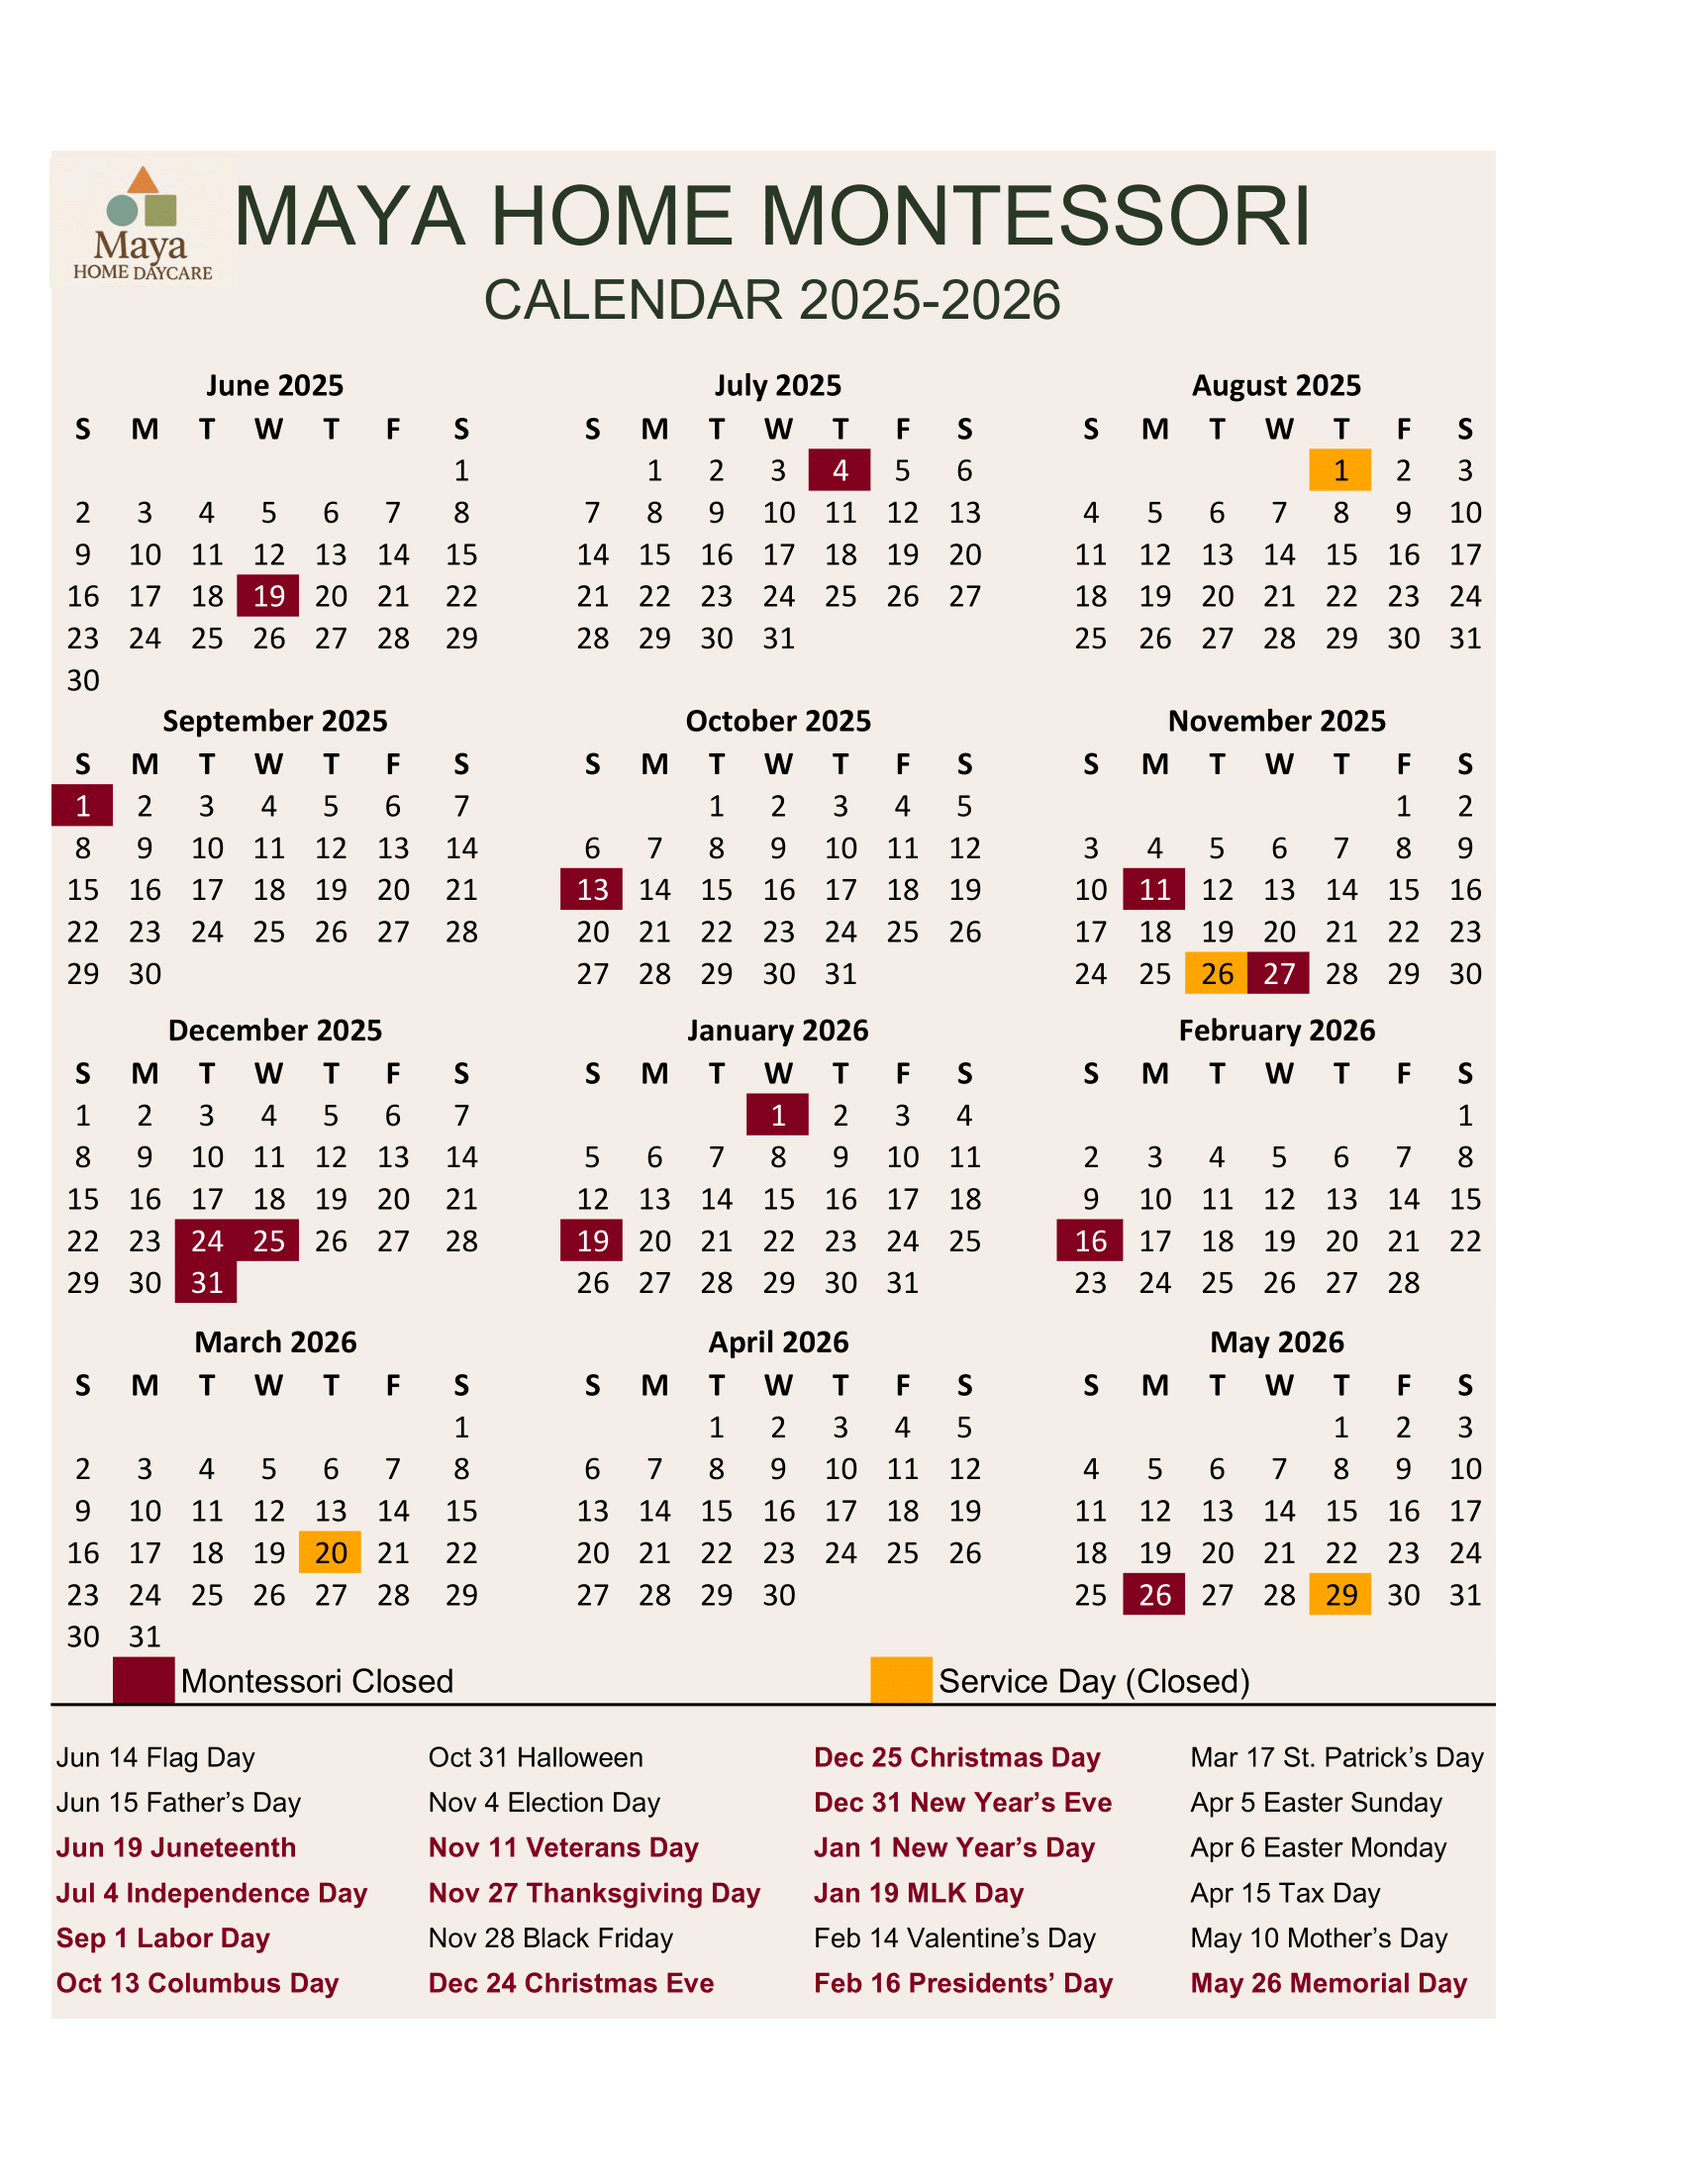
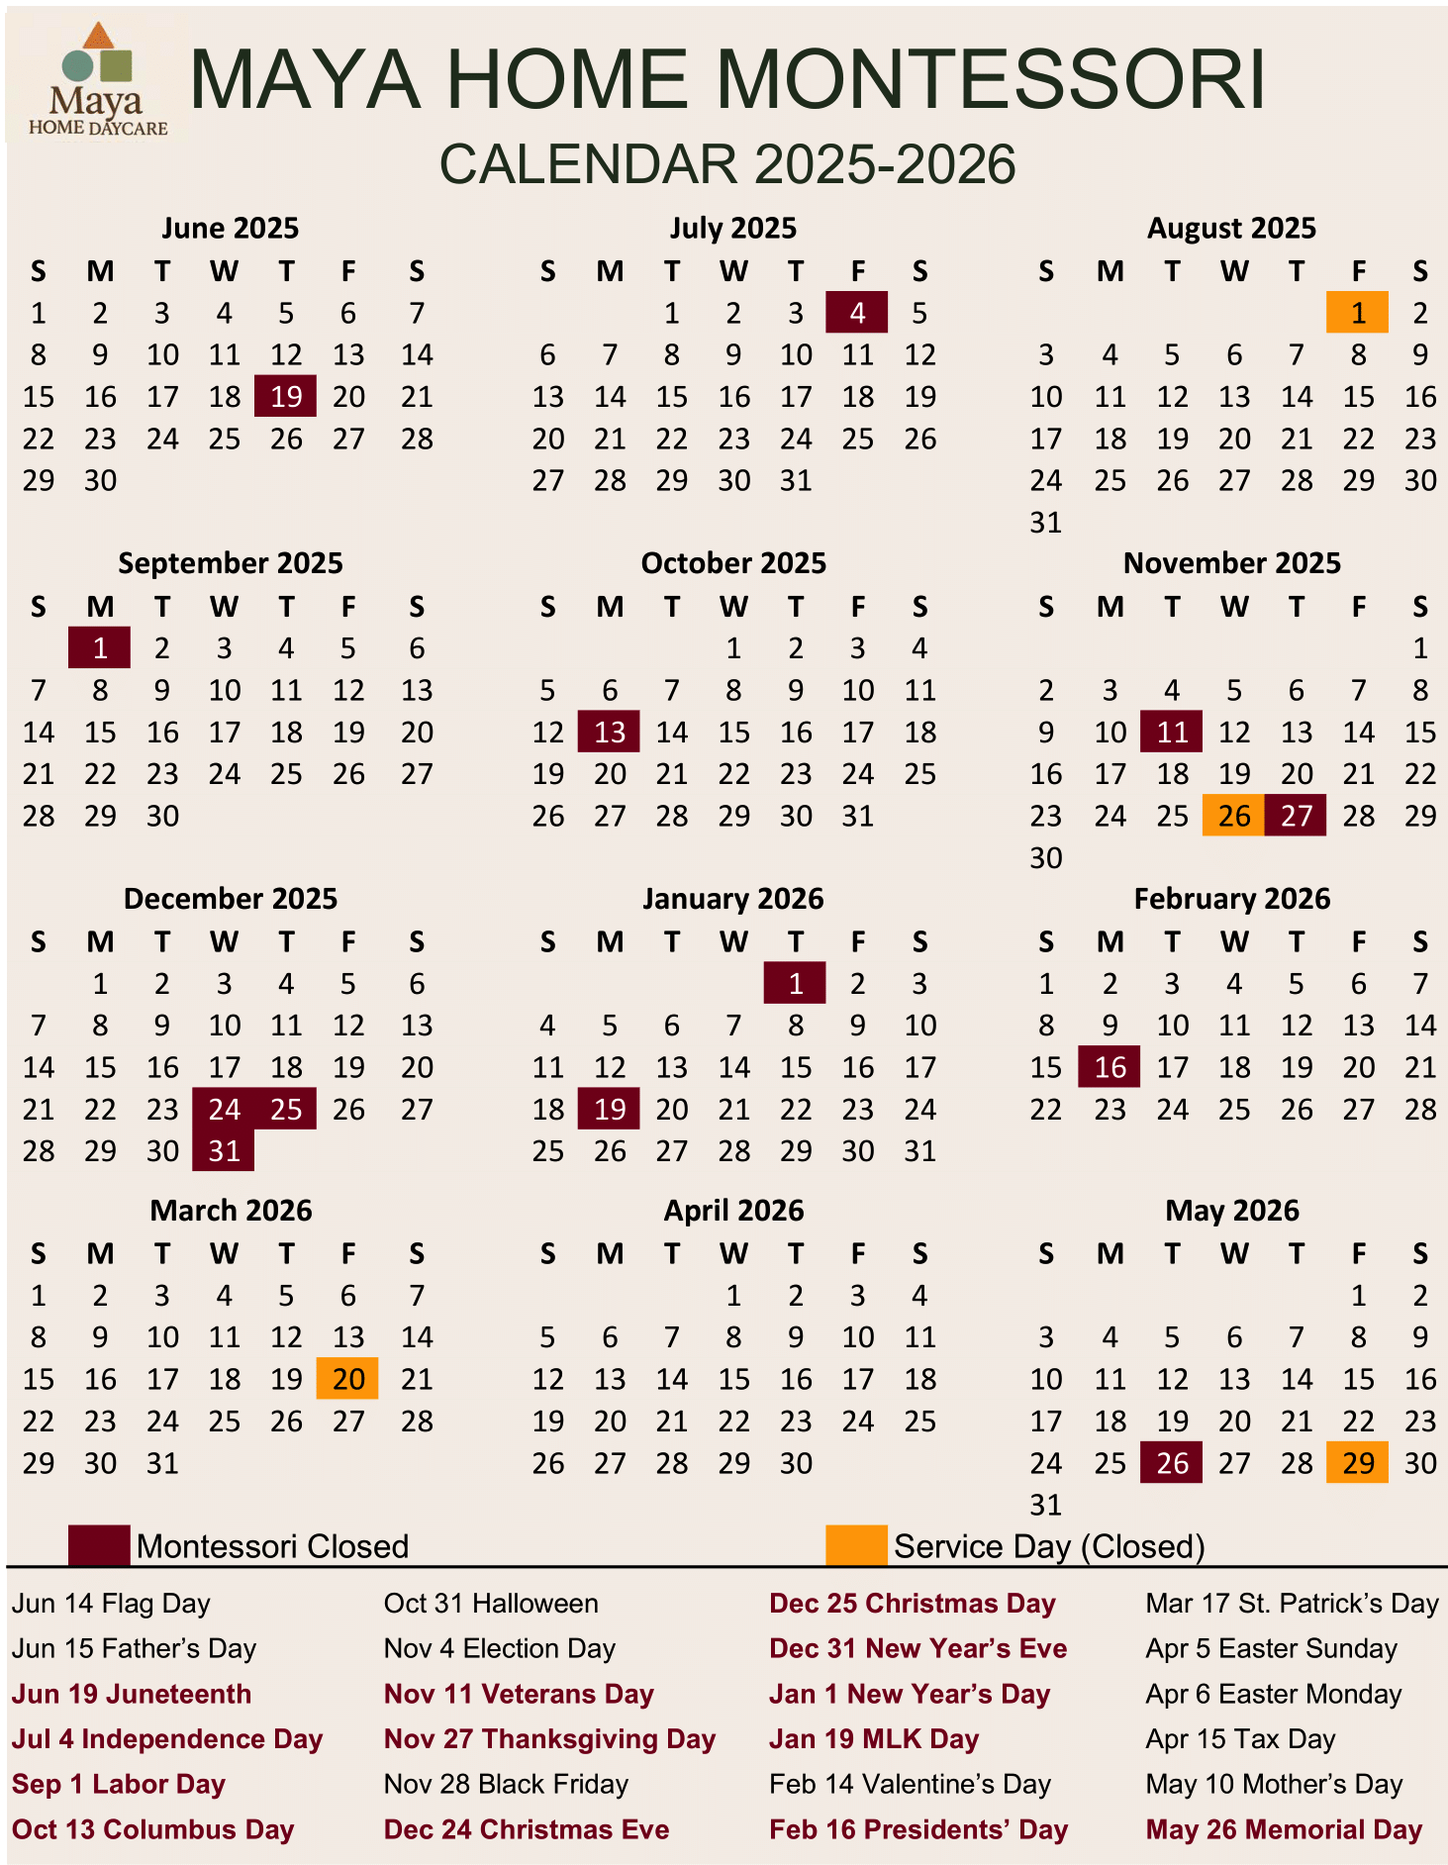
updated calendar 2025-2026

diff --git a/calendar.html b/calendar.html
@@ -121,29 +121,52 @@
         <div class="row justify-content-center">
           <div class="col-md-5">
             <ul class="list-group list-group-flush text-start">
+              <li class="list-group-item"><i class="far fa-calendar-alt me-2"></i> Jun 19: Juneteenth (Closed)</li>
               <li class="list-group-item"><i class="far fa-calendar-alt me-2"></i> Jul 4: Independence Day (Closed)</li>
+              <li class="list-group-item"><i class="far fa-calendar-alt me-2"></i> Sep 1: Labor Day (Closed)</li>
               <li class="list-group-item"><i class="far fa-calendar-alt me-2"></i> Oct 13: Columbus Day (Closed)</li>
-              <li class="list-group-item"><i class="far fa-calendar-alt me-2"></i> Dec 24–25: Christmas Eve & Day (Closed)</li>
-              <li class="list-group-item"><i class="far fa-calendar-alt me-2"></i> Jan 1: New Year's Day (Closed)</li>
-              <li class="list-group-item"><i class="far fa-calendar-alt me-2"></i> Feb 16: Presidents' Day (Closed)</li>
-              <li class="list-group-item"><i class="far fa-calendar-alt me-2"></i> May 29: End-of-Year Closure</li>
+              <li class="list-group-item"><i class="far fa-calendar-alt me-2"></i> Nov 11: Veterans Day (Closed)</li>
+              <li class="list-group-item"><i class="far fa-calendar-alt me-2"></i> Nov 27: Thanksgiving (Closed)</li>
             </ul>
           </div>
           <div class="col-md-5">
             <ul class="list-group list-group-flush text-start">
-              <li class="list-group-item"><i class="far fa-calendar-alt me-2"></i> Sep 1: Labor Day (Closed)</li>
-              <li class="list-group-item"><i class="far fa-calendar-alt me-2"></i> Nov 27: Thanksgiving Day (Closed)</li>
+              <li class="list-group-item"><i class="far fa-calendar-alt me-2"></i> Dec 24–25: Christmas Eve & Day (Closed)</li>
               <li class="list-group-item"><i class="far fa-calendar-alt me-2"></i> Dec 31: New Year's Eve (Closed)</li>
+              <li class="list-group-item"><i class="far fa-calendar-alt me-2"></i> Jan 1: New Year's Day (Closed)</li>
               <li class="list-group-item"><i class="far fa-calendar-alt me-2"></i> Jan 19: MLK Day (Closed)</li>
-              <li class="list-group-item"><i class="far fa-calendar-alt me-2"></i> Mar 20: Staff Service Day (Closed)</li>
+              <li class="list-group-item"><i class="far fa-calendar-alt me-2"></i> Feb 16: Presidents' Day (Closed)</li>
+              <li class="list-group-item"><i class="far fa-calendar-alt me-2"></i> May 26: Memorial Day (Closed)</li>
             </ul>
           </div>
         </div>
       
-        <a href="img/Calendar_2025_2026.png" class="download-btn mt-4" download>
-          <i class="fas fa-file-download me-2"></i>Download Calendar PDF
-        </a>
-      </div>
+        <h4 class="mt-5 mb-3 text-center" style="font-weight: 600;">
+          <i class="fas fa-tools me-2"></i>Staff Service Days (Closed)
+        </h4>
+        
+        <div class="row justify-content-center">
+          <div class="col-md-5">
+            <ul class="list-group list-group-flush text-start">
+              <li class="list-group-item"><i class="far fa-calendar-alt me-2"></i> Aug 1, 2025</li>
+              <li class="list-group-item"><i class="far fa-calendar-alt me-2"></i> Nov 26, 2025</li>
+            </ul>
+          </div>
+          <div class="col-md-5">
+            <ul class="list-group list-group-flush text-start">
+              <li class="list-group-item"><i class="far fa-calendar-alt me-2"></i> Mar 20, 2026</li>
+              <li class="list-group-item"><i class="far fa-calendar-alt me-2"></i> May 29, 2026</li>
+            </ul>
+          </div>
+        </div>
+        
+        <div class="text-center mt-4">
+          <a href="img/Calendar_2025_2026.png" class="btn btn-outline-warning download-btn">
+            <i class="fas fa-file-download me-2"></i>Download Calendar PDF
+          </a>
+        </div>
+        
+      
       
     </section>
     <!-- Calendar Section End -->
